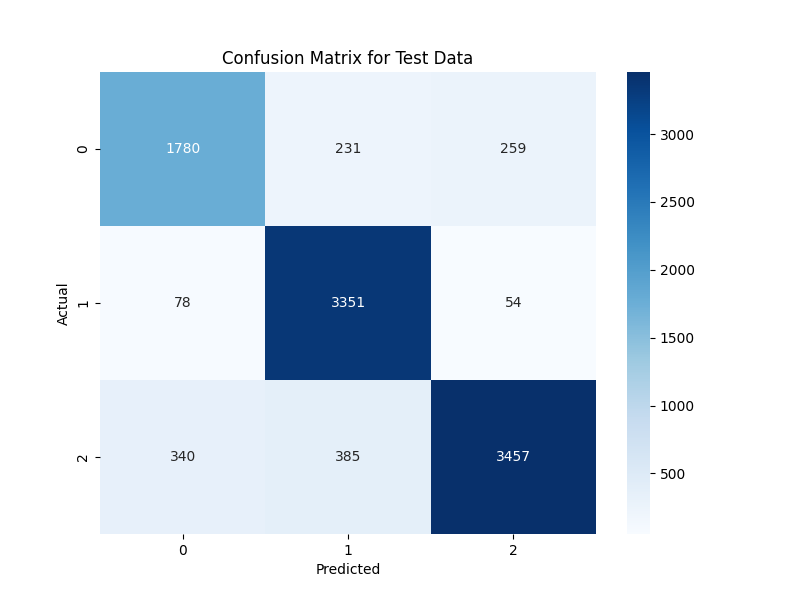
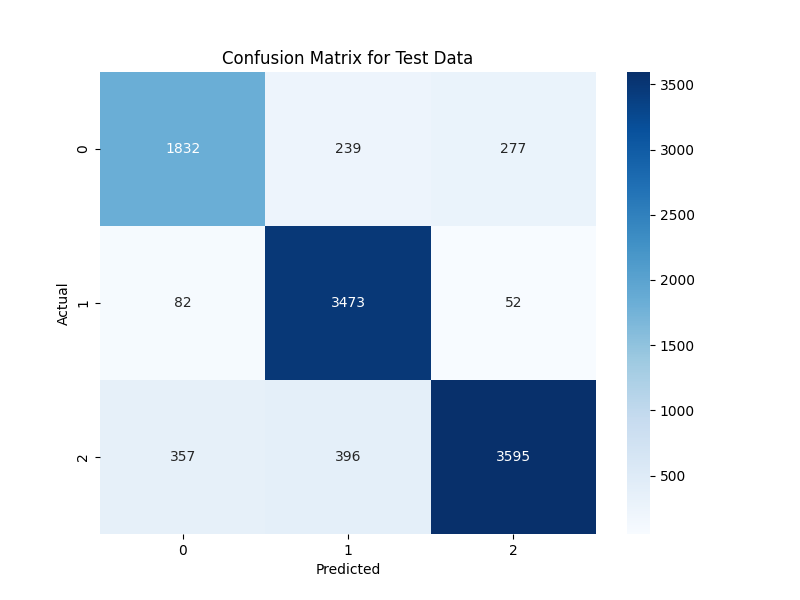
6

diff --git a/src/model/model_evaluation.py b/src/model/model_evaluation.py
@@ -1,0 +1,201 @@
+import numpy as np
+import pandas as pd
+import pickle
+import logging
+import yaml
+import mlflow
+import mlflow.sklearn
+from sklearn.metrics import classification_report, confusion_matrix
+from sklearn.feature_extraction.text import TfidfVectorizer
+import os
+import matplotlib.pyplot as plt
+import seaborn as sns
+import json
+from mlflow.models import infer_signature
+
+# logging configuration
+logger = logging.getLogger('model_evaluation')
+logger.setLevel('DEBUG')
+
+console_handler = logging.StreamHandler()
+console_handler.setLevel('DEBUG')
+
+file_handler = logging.FileHandler('model_evaluation_errors.log')
+file_handler.setLevel('ERROR')
+
+formatter = logging.Formatter('%(asctime)s - %(name)s - %(levelname)s - %(message)s')
+console_handler.setFormatter(formatter)
+file_handler.setFormatter(formatter)
+
+logger.addHandler(console_handler)
+logger.addHandler(file_handler)
+
+
+def load_data(file_path: str) -> pd.DataFrame:
+    """Load data from a CSV file."""
+    try:
+        df = pd.read_csv(file_path)
+        df.fillna('', inplace=True)  # Fill any NaN values
+        logger.debug('Data loaded and NaNs filled from %s', file_path)
+        return df
+    except Exception as e:
+        logger.error('Error loading data from %s: %s', file_path, e)
+        raise
+
+
+def load_model(model_path: str):
+    """Load the trained model."""
+    try:
+        with open(model_path, 'rb') as file:
+            model = pickle.load(file)
+        logger.debug('Model loaded from %s', model_path)
+        return model
+    except Exception as e:
+        logger.error('Error loading model from %s: %s', model_path, e)
+        raise
+
+
+def load_vectorizer(vectorizer_path: str) -> TfidfVectorizer:
+    """Load the saved TF-IDF vectorizer."""
+    try:
+        with open(vectorizer_path, 'rb') as file:
+            vectorizer = pickle.load(file)
+        logger.debug('TF-IDF vectorizer loaded from %s', vectorizer_path)
+        return vectorizer
+    except Exception as e:
+        logger.error('Error loading vectorizer from %s: %s', vectorizer_path, e)
+        raise
+
+
+def load_params(params_path: str) -> dict:
+    """Load parameters from a YAML file."""
+    try:
+        with open(params_path, 'r') as file:
+            params = yaml.safe_load(file)
+        logger.debug('Parameters loaded from %s', params_path)
+        return params
+    except Exception as e:
+        logger.error('Error loading parameters from %s: %s', params_path, e)
+        raise
+
+
+def evaluate_model(model, X_test: np.ndarray, y_test: np.ndarray):
+    """Evaluate the model and log classification metrics and confusion matrix."""
+    try:
+        # Predict and calculate classification metrics
+        y_pred = model.predict(X_test)
+        report = classification_report(y_test, y_pred, output_dict=True)
+        cm = confusion_matrix(y_test, y_pred)
+        
+        logger.debug('Model evaluation completed')
+
+        return report, cm
+    except Exception as e:
+        logger.error('Error during model evaluation: %s', e)
+        raise
+
+
+def log_confusion_matrix(cm, dataset_name):
+    """Log confusion matrix as an artifact."""
+    plt.figure(figsize=(8, 6))
+    sns.heatmap(cm, annot=True, fmt='d', cmap='Blues')
+    plt.title(f'Confusion Matrix for {dataset_name}')
+    plt.xlabel('Predicted')
+    plt.ylabel('Actual')
+
+    # Save confusion matrix plot as a file and log it to MLflow
+    cm_file_path = f'confusion_matrix_{dataset_name}.png'
+    plt.savefig(cm_file_path)
+    mlflow.log_artifact(cm_file_path)
+    plt.close()
+
+def save_model_info(run_id: str, model_path: str, file_path: str) -> None:
+    """Save the model run ID and path to a JSON file."""
+    try:
+        # Create a dictionary with the info you want to save
+        model_info = {
+            'run_id': run_id,
+            'model_path': model_path
+        }
+        # Save the dictionary as a JSON file
+        with open(file_path, 'w') as file:
+            json.dump(model_info, file, indent=4)
+        logger.debug('Model info saved to %s', file_path)
+    except Exception as e:
+        logger.error('Error occurred while saving the model info: %s', e)
+        raise
+
+
+def main():
+    mlflow.set_tracking_uri("http://ec2-3-108-217-173.ap-south-1.compute.amazonaws.com:5000/")
+
+    mlflow.set_experiment('dvc-pipeline-runs')
+    
+    with mlflow.start_run() as run:
+        try:
+            # Load parameters from YAML file
+            root_dir = os.path.abspath(os.path.join(os.path.dirname(__file__), '../../'))
+            params = load_params(os.path.join(root_dir, 'params.yaml'))
+
+            # Log parameters
+            for key, value in params.items():
+                mlflow.log_param(key, value)
+            
+            # Load model and vectorizer
+            model = load_model(os.path.join(root_dir, 'lgbm_model.pkl'))
+            vectorizer = load_vectorizer(os.path.join(root_dir, 'tfidf_vectorizer.pkl'))
+
+            # Load test data for signature inference
+            test_data = load_data(os.path.join(root_dir, 'data/interim/test_processed.csv'))
+
+            # Prepare test data
+            X_test_tfidf = vectorizer.transform(test_data['clean_comment'].values)
+            y_test = test_data['category'].values
+
+            # Create a DataFrame for signature inference (using first few rows as an example)
+            input_example = pd.DataFrame(X_test_tfidf.toarray()[:5], columns=vectorizer.get_feature_names_out())  # <--- Added for signature
+
+            # Infer the signature
+            signature = infer_signature(input_example, model.predict(X_test_tfidf[:5]))  # <--- Added for signature
+
+            # Log model with signature
+            mlflow.sklearn.log_model(
+                model,
+                "lgbm_model",
+                signature=signature,  # <--- Added for signature
+                input_example=input_example  # <--- Added input example
+            )
+
+            # Save model info
+            model_path = "lgbm_model"
+            save_model_info(run.info.run_id, model_path, 'experiment_info.json')
+
+            # Log the vectorizer as an artifact
+            mlflow.log_artifact(os.path.join(root_dir, 'tfidf_vectorizer.pkl'))
+
+            # Evaluate model and get metrics
+            report, cm = evaluate_model(model, X_test_tfidf, y_test)
+
+            # Log classification report metrics for the test data
+            for label, metrics in report.items():
+                if isinstance(metrics, dict):
+                    mlflow.log_metrics({
+                        f"test_{label}_precision": metrics['precision'],
+                        f"test_{label}_recall": metrics['recall'],
+                        f"test_{label}_f1-score": metrics['f1-score']
+                    })
+
+            # Log confusion matrix
+            log_confusion_matrix(cm, "Test Data")
+
+            # Add important tags
+            mlflow.set_tag("model_type", "LightGBM")
+            mlflow.set_tag("task", "Sentiment Analysis")
+            mlflow.set_tag("dataset", "YouTube Comments")
+
+        except Exception as e:
+            logger.error(f"Failed to complete model evaluation: {e}")
+            print(f"Error: {e}")
+
+if __name__ == '__main__':
+    main()

diff --git a/src/model/register_model.py b/src/model/register_model.py
@@ -1,0 +1,76 @@
+# register model
+
+import json
+import mlflow
+import logging
+import os
+
+# Set up MLflow tracking URI
+mlflow.set_tracking_uri("http://ec2-3-108-217-173.ap-south-1.compute.amazonaws.com:5000/")
+
+
+# logging configuration
+logger = logging.getLogger('model_registration')
+logger.setLevel('DEBUG')
+
+console_handler = logging.StreamHandler()
+console_handler.setLevel('DEBUG')
+
+file_handler = logging.FileHandler('model_registration_errors.log')
+file_handler.setLevel('ERROR')
+
+formatter = logging.Formatter('%(asctime)s - %(name)s - %(levelname)s - %(message)s')
+console_handler.setFormatter(formatter)
+file_handler.setFormatter(formatter)
+
+logger.addHandler(console_handler)
+logger.addHandler(file_handler)
+
+def load_model_info(file_path: str) -> dict:
+    """Load the model info from a JSON file."""
+    try:
+        with open(file_path, 'r') as file:
+            model_info = json.load(file)
+        logger.debug('Model info loaded from %s', file_path)
+        return model_info
+    except FileNotFoundError:
+        logger.error('File not found: %s', file_path)
+        raise
+    except Exception as e:
+        logger.error('Unexpected error occurred while loading the model info: %s', e)
+        raise
+
+def register_model(model_name: str, model_info: dict):
+    """Register the model to the MLflow Model Registry."""
+    try:
+        model_uri = f"runs:/{model_info['run_id']}/{model_info['model_path']}"
+        
+        # Register the model
+        model_version = mlflow.register_model(model_uri, model_name)
+        
+        # Transition the model to "Staging" stage
+        client = mlflow.tracking.MlflowClient()
+        client.transition_model_version_stage(
+            name=model_name,
+            version=model_version.version,
+            stage="Staging"
+        )
+        
+        logger.debug(f'Model {model_name} version {model_version.version} registered and transitioned to Staging.')
+    except Exception as e:
+        logger.error('Error during model registration: %s', e)
+        raise
+
+def main():
+    try:
+        model_info_path = 'experiment_info.json'
+        model_info = load_model_info(model_info_path)
+        
+        model_name = "Youtube-Comments-Sentiment-Analyzer"
+        register_model(model_name, model_info)
+    except Exception as e:
+        logger.error('Failed to complete the model registration process: %s', e)
+        print(f"Error: {e}")
+
+if __name__ == '__main__':
+    main()

diff --git a/flask_app/app.py b/flask_app/app.py
@@ -51,7 +51,7 @@ def load_model_and_vectorizer(model_name, model_version, vectorizer_path):
     return model, vectorizer
 
 # Initialize the model and vectorizer
-model, vectorizer = load_model_and_vectorizer("Youtube-Comments-Sentiment-Analyzer", "1", "./tfidf_vectorizer.pkl")
+model, vectorizer = load_model_and_vectorizer("Youtube-Comments-Sentiment-Analyzer", "2", "./tfidf_vectorizer.pkl")
 
 @app.route('/predict', methods=['POST'])
 def predict():
@@ -78,4 +78,4 @@ def predict():
     return jsonify(response)
 
 if __name__ == '__main__':
-    app.run(host='0.0.0.0', port=5000)
+    app.run(host='0.0.0.0', port=8000)
